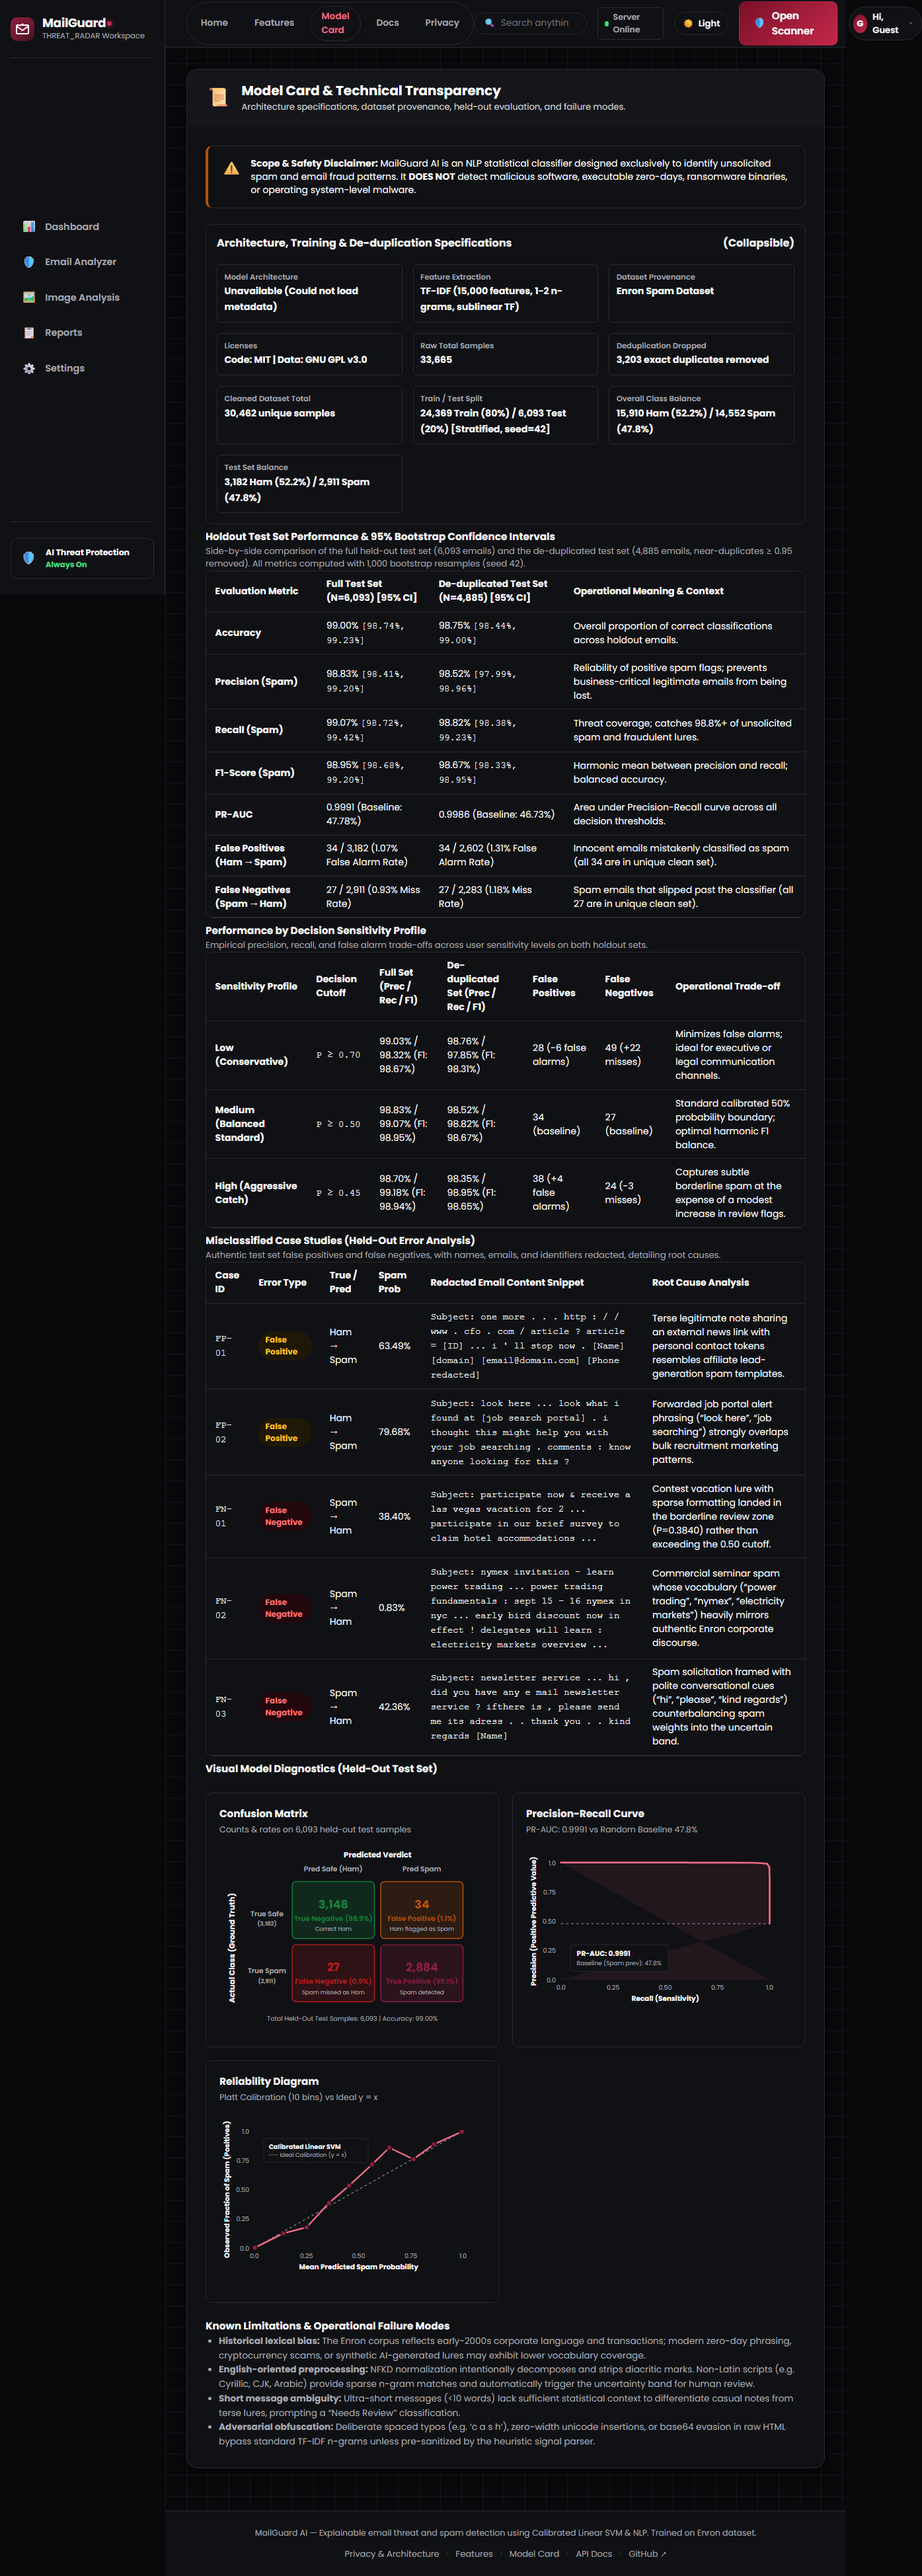
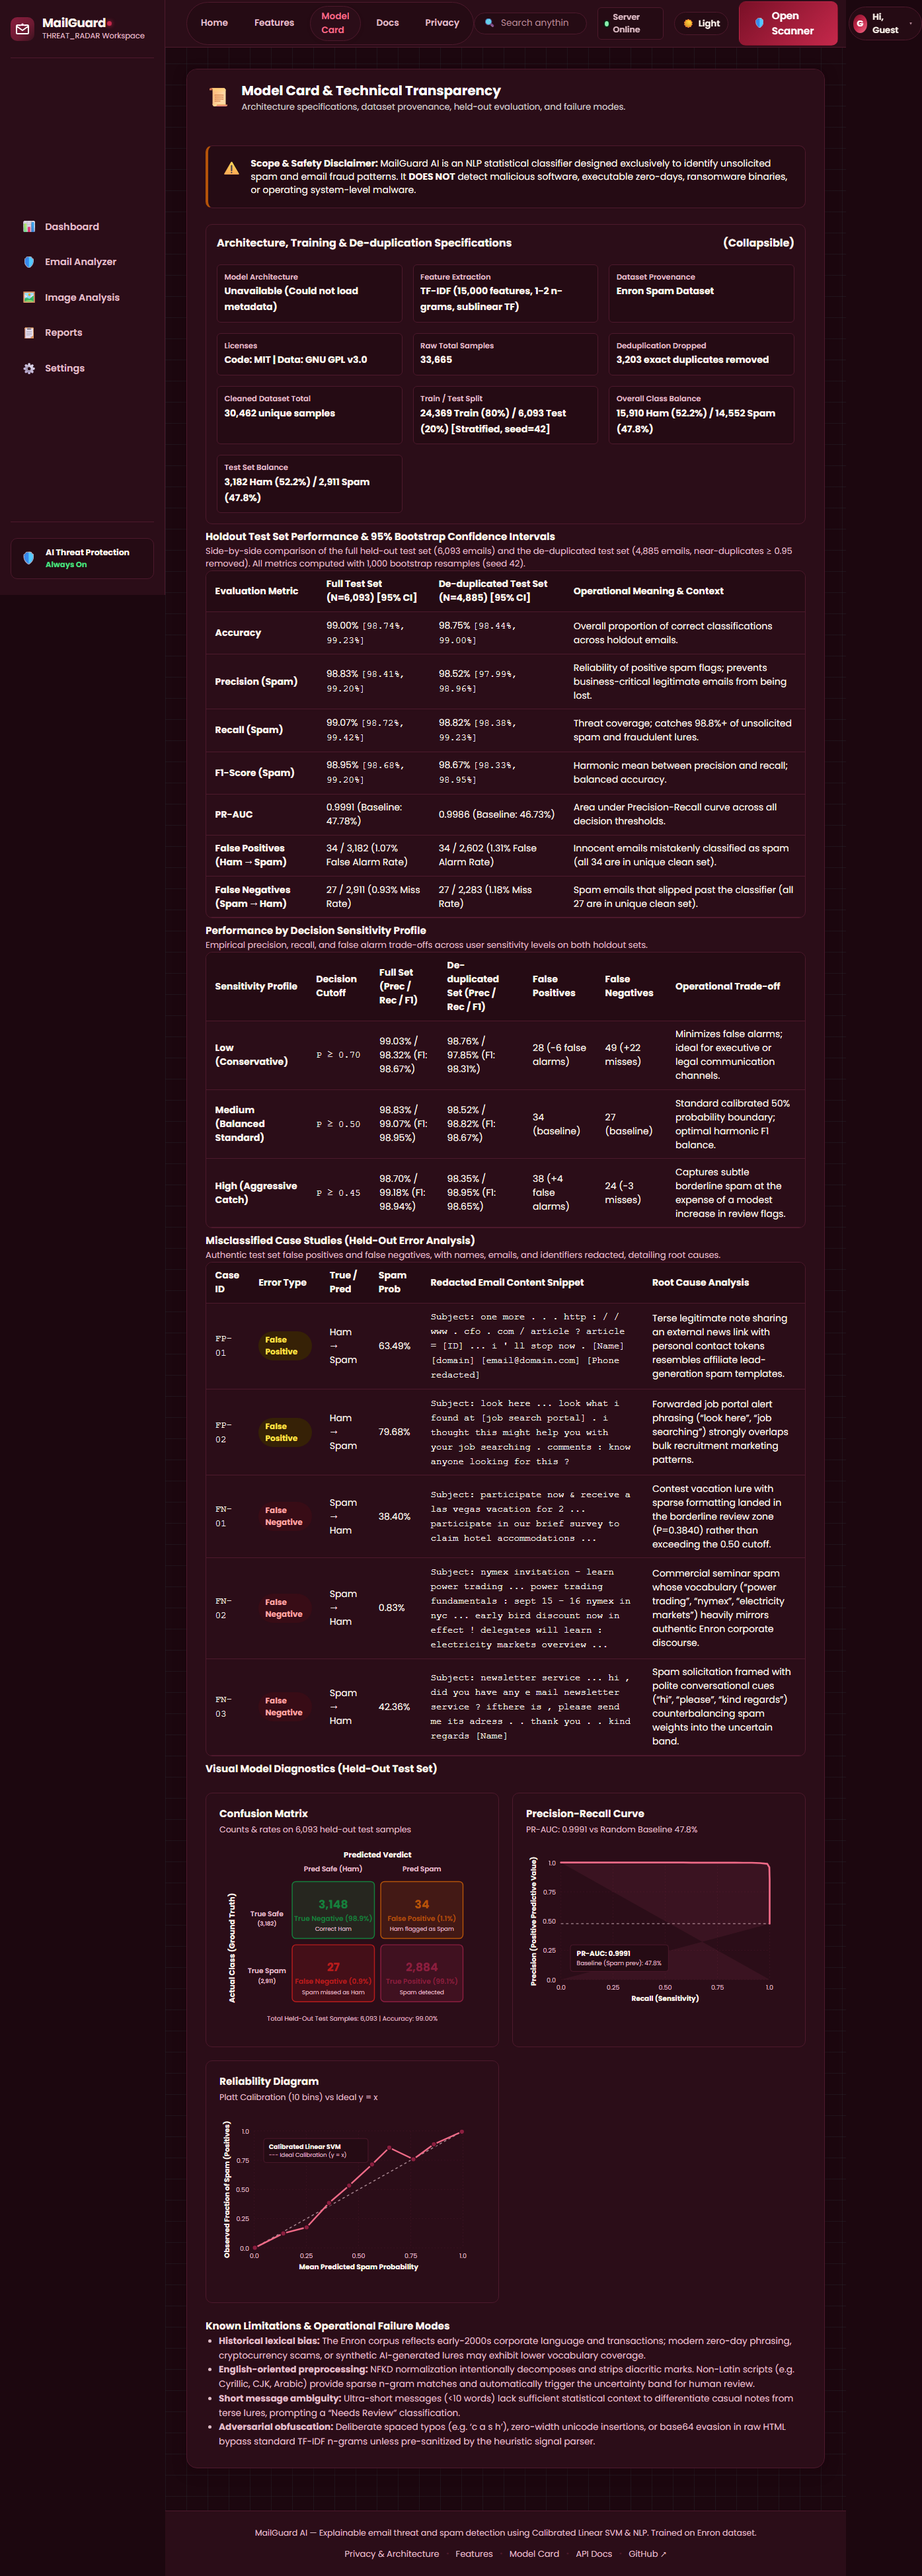
fix(ui): update dark mode to deep burgundy palette and sync frontend

diff --git a/frontend/css/style.css b/frontend/css/style.css
@@ -136,82 +136,83 @@
 }
 
 [data-theme="dark"] {
-  /* Surfaces & Canvas (Render-Inspired Near-Black & Maroon Palette) */
-  --color-bg: #08090B;
-  --color-bg-subtle: #101114;
-  --color-surface: #101114;
-  --color-card: #101114;
-  --color-surface-2: #15161B;
-  --color-border: #292A30;
-  --color-border-hover: #3a3b45;
-  --color-border-focus: #C5284B;
+  /* Surfaces & Canvas (Deep Burgundy & Layered Dark Maroon Palette) */
+  --color-bg: #1c070f;
+  --color-bg-subtle: #250b14;
+  --color-surface: #2b0d18;
+  --color-card: #2b0d18;
+  --color-surface-2: #361120;
+  --color-border: #4d192c;
+  --color-border-hover: #6b243e;
+  --color-border-focus: #f06b88;
 
   /* Deep Maroon & Burgundy Accents */
-  --color-maroon-dark: #1f040b;
-  --color-maroon-deep: #3A0714;
-  --color-maroon: #7A1027;
-  --color-maroon-surface: #15161B;
-  --color-maroon-text: #F5F5F7;
-  --color-maroon-accent: #C5284B;
-  --color-maroon-rose: #F06B88;
+  --color-maroon-dark: #19050d;
+  --color-maroon-deep: #250b14;
+  --color-maroon: #7a1027;
+  --color-maroon-surface: #2b0d18;
+  --color-maroon-text: #fcf4ec;
+  --color-maroon-accent: #e25875;
+  --color-maroon-rose: #f06b88;
+  --color-maroon-gold: #f5c056;
 
-  /* Typography & Text */
-  --color-text-main: #F5F5F7;
-  --color-text-muted: #A6A7B0;
-  --color-text-subtle: #73747f;
-  --color-text-inverse: #08090B;
+  /* Typography & Text (Accessible Off-White & Dusty Rose) */
+  --color-text-main: #fcf4ec;
+  --color-text-muted: #e0bec8;
+  --color-text-subtle: #b38896;
+  --color-text-inverse: #1c070f;
 
-  /* Primary Interactive / Maroon Crimson Action */
-  --color-primary: #F06B88;
-  --color-primary-hover: #f4829c;
-  --color-primary-active: #C5284B;
-  --color-primary-text: #08090B;
-  --color-primary-gradient: linear-gradient(135deg, #7A1027 0%, #C5284B 100%);
-  --color-focus-ring: rgba(197, 40, 75, 0.4);
+  /* Primary Interactive / Dusty Pink & Muted Rose Action */
+  --color-primary: #f06b88;
+  --color-primary-hover: #f88ba3;
+  --color-primary-active: #d94f6e;
+  --color-primary-text: #1c070f;
+  --color-primary-gradient: linear-gradient(135deg, #7a1027 0%, #c5284b 50%, #f06b88 100%);
+  --color-focus-ring: rgba(240, 107, 136, 0.4);
 
   /* Secondary / Neutral Actions */
-  --color-secondary: #15161B;
-  --color-secondary-hover: #1e1f26;
-  --color-secondary-text: #F5F5F7;
-  --color-secondary-border: #292A30;
+  --color-secondary: #361120;
+  --color-secondary-hover: #451629;
+  --color-secondary-text: #fcf4ec;
+  --color-secondary-border: #4d192c;
 
   /* Peach & Coral Accents */
-  --color-coral: #C5284B;
-  --color-coral-light: #200810;
-  --color-coral-gradient: linear-gradient(135deg, #C5284B 0%, #F06B88 100%);
-  --color-peach-subtle: #15161B;
+  --color-coral: #f06b88;
+  --color-coral-light: #380c16;
+  --color-coral-gradient: linear-gradient(135deg, #c5284b 0%, #f06b88 100%);
+  --color-peach-subtle: #2b0d18;
 
   /* Verdict Colors in Dark (WCAG AA >= 4.5:1) */
-  --color-spam: #f87171;
-  --color-spam-bg: #22080d;
-  --color-spam-border: #7f1d1d;
+  --color-spam: #fca5a5;
+  --color-spam-bg: #380c16;
+  --color-spam-border: #8b1e3f;
 
-  --color-ham: #4ade80;
-  --color-ham-bg: #071f11;
-  --color-ham-border: #14532d;
+  --color-ham: #86efac;
+  --color-ham-bg: #0a2615;
+  --color-ham-border: #15803d;
 
-  --color-uncertain: #fbbf24;
-  --color-uncertain-bg: #1f1807;
-  --color-uncertain-border: #78350f;
+  --color-uncertain: #fde047;
+  --color-uncertain-bg: #362106;
+  --color-uncertain-border: #b45309;
 
   /* Risk levels */
-  --color-risk-low: #4ade80;
-  --color-risk-med: #fbbf24;
-  --color-risk-high: #f87171;
+  --color-risk-low: #86efac;
+  --color-risk-med: #fde047;
+  --color-risk-high: #fca5a5;
 
   /* Token Highlights (Dark - WCAG AA >= 4.5:1) */
-  --color-token-spam-bg: #350b14;
+  --color-token-spam-bg: #400f1a;
   --color-token-spam-text: #fca5a5;
-  --color-token-spam-border: #C5284B;
+  --color-token-spam-border: #c5284b;
 
-  --color-token-ham-bg: #092615;
+  --color-token-ham-bg: #0c2e19;
   --color-token-ham-text: #86efac;
   --color-token-ham-border: #4ade80;
 
-  /* Shadows */
-  --shadow-sm: 0 1px 3px rgba(0, 0, 0, 0.5);
-  --shadow-md: 0 6px 20px -2px rgba(0, 0, 0, 0.6), 0 2px 6px -1px rgba(0, 0, 0, 0.35);
-  --shadow-lg: 0 14px 36px -4px rgba(0, 0, 0, 0.75), 0 4px 12px -2px rgba(0, 0, 0, 0.45);
+  /* Shadows (Tinted with deep burgundy) */
+  --shadow-sm: 0 1px 3px rgba(28, 7, 15, 0.45);
+  --shadow-md: 0 6px 20px -2px rgba(28, 7, 15, 0.55), 0 2px 6px -1px rgba(28, 7, 15, 0.35);
+  --shadow-lg: 0 14px 36px -4px rgba(28, 7, 15, 0.65), 0 4px 12px -2px rgba(28, 7, 15, 0.4);
 }
 
 /* -------------------------------------------------------------------------- */
@@ -4742,8 +4743,8 @@ body {
 }
 
 [data-theme="dark"] .radar-value-polygon {
-  fill: rgba(45, 212, 191, 0.2);
-  stroke: #2DD4BF;
+  fill: rgba(240, 107, 136, 0.25);
+  stroke: var(--color-primary);
 }
 
 .radar-vertex-dot {
@@ -4754,8 +4755,8 @@ body {
 }
 
 [data-theme="dark"] .radar-vertex-dot {
-  fill: #2DD4BF;
-  stroke: #08090B;
+  fill: var(--color-primary);
+  stroke: var(--color-surface);
 }
 
 .radar-vectors-breakdown {
@@ -4893,8 +4894,8 @@ body {
 }
 
 [data-theme="dark"] .badge-winner {
-  background-color: rgba(45, 212, 191, 0.2);
-  color: #5eead4;
+  background-color: rgba(245, 192, 86, 0.2);
+  color: #fde047;
 }
 
 .badge-candidate {
@@ -4903,8 +4904,8 @@ body {
 }
 
 [data-theme="dark"] .badge-candidate {
-  background-color: rgba(148, 163, 184, 0.2);
-  color: #cbd5e1;
+  background-color: rgba(240, 107, 136, 0.18);
+  color: #f9a8b8;
 }
 
 .algo-verdict-badge {

diff --git a/static/css/style.css b/static/css/style.css
@@ -136,82 +136,83 @@
 }
 
 [data-theme="dark"] {
-  /* Surfaces & Canvas (Render-Inspired Near-Black & Maroon Palette) */
-  --color-bg: #08090B;
-  --color-bg-subtle: #101114;
-  --color-surface: #101114;
-  --color-card: #101114;
-  --color-surface-2: #15161B;
-  --color-border: #292A30;
-  --color-border-hover: #3a3b45;
-  --color-border-focus: #C5284B;
+  /* Surfaces & Canvas (Deep Burgundy & Layered Dark Maroon Palette) */
+  --color-bg: #1c070f;
+  --color-bg-subtle: #250b14;
+  --color-surface: #2b0d18;
+  --color-card: #2b0d18;
+  --color-surface-2: #361120;
+  --color-border: #4d192c;
+  --color-border-hover: #6b243e;
+  --color-border-focus: #f06b88;
 
   /* Deep Maroon & Burgundy Accents */
-  --color-maroon-dark: #1f040b;
-  --color-maroon-deep: #3A0714;
-  --color-maroon: #7A1027;
-  --color-maroon-surface: #15161B;
-  --color-maroon-text: #F5F5F7;
-  --color-maroon-accent: #C5284B;
-  --color-maroon-rose: #F06B88;
+  --color-maroon-dark: #19050d;
+  --color-maroon-deep: #250b14;
+  --color-maroon: #7a1027;
+  --color-maroon-surface: #2b0d18;
+  --color-maroon-text: #fcf4ec;
+  --color-maroon-accent: #e25875;
+  --color-maroon-rose: #f06b88;
+  --color-maroon-gold: #f5c056;
 
-  /* Typography & Text */
-  --color-text-main: #F5F5F7;
-  --color-text-muted: #A6A7B0;
-  --color-text-subtle: #73747f;
-  --color-text-inverse: #08090B;
+  /* Typography & Text (Accessible Off-White & Dusty Rose) */
+  --color-text-main: #fcf4ec;
+  --color-text-muted: #e0bec8;
+  --color-text-subtle: #b38896;
+  --color-text-inverse: #1c070f;
 
-  /* Primary Interactive / Maroon Crimson Action */
-  --color-primary: #F06B88;
-  --color-primary-hover: #f4829c;
-  --color-primary-active: #C5284B;
-  --color-primary-text: #08090B;
-  --color-primary-gradient: linear-gradient(135deg, #7A1027 0%, #C5284B 100%);
-  --color-focus-ring: rgba(197, 40, 75, 0.4);
+  /* Primary Interactive / Dusty Pink & Muted Rose Action */
+  --color-primary: #f06b88;
+  --color-primary-hover: #f88ba3;
+  --color-primary-active: #d94f6e;
+  --color-primary-text: #1c070f;
+  --color-primary-gradient: linear-gradient(135deg, #7a1027 0%, #c5284b 50%, #f06b88 100%);
+  --color-focus-ring: rgba(240, 107, 136, 0.4);
 
   /* Secondary / Neutral Actions */
-  --color-secondary: #15161B;
-  --color-secondary-hover: #1e1f26;
-  --color-secondary-text: #F5F5F7;
-  --color-secondary-border: #292A30;
+  --color-secondary: #361120;
+  --color-secondary-hover: #451629;
+  --color-secondary-text: #fcf4ec;
+  --color-secondary-border: #4d192c;
 
   /* Peach & Coral Accents */
-  --color-coral: #C5284B;
-  --color-coral-light: #200810;
-  --color-coral-gradient: linear-gradient(135deg, #C5284B 0%, #F06B88 100%);
-  --color-peach-subtle: #15161B;
+  --color-coral: #f06b88;
+  --color-coral-light: #380c16;
+  --color-coral-gradient: linear-gradient(135deg, #c5284b 0%, #f06b88 100%);
+  --color-peach-subtle: #2b0d18;
 
   /* Verdict Colors in Dark (WCAG AA >= 4.5:1) */
-  --color-spam: #f87171;
-  --color-spam-bg: #22080d;
-  --color-spam-border: #7f1d1d;
+  --color-spam: #fca5a5;
+  --color-spam-bg: #380c16;
+  --color-spam-border: #8b1e3f;
 
-  --color-ham: #4ade80;
-  --color-ham-bg: #071f11;
-  --color-ham-border: #14532d;
+  --color-ham: #86efac;
+  --color-ham-bg: #0a2615;
+  --color-ham-border: #15803d;
 
-  --color-uncertain: #fbbf24;
-  --color-uncertain-bg: #1f1807;
-  --color-uncertain-border: #78350f;
+  --color-uncertain: #fde047;
+  --color-uncertain-bg: #362106;
+  --color-uncertain-border: #b45309;
 
   /* Risk levels */
-  --color-risk-low: #4ade80;
-  --color-risk-med: #fbbf24;
-  --color-risk-high: #f87171;
+  --color-risk-low: #86efac;
+  --color-risk-med: #fde047;
+  --color-risk-high: #fca5a5;
 
   /* Token Highlights (Dark - WCAG AA >= 4.5:1) */
-  --color-token-spam-bg: #350b14;
+  --color-token-spam-bg: #400f1a;
   --color-token-spam-text: #fca5a5;
-  --color-token-spam-border: #C5284B;
+  --color-token-spam-border: #c5284b;
 
-  --color-token-ham-bg: #092615;
+  --color-token-ham-bg: #0c2e19;
   --color-token-ham-text: #86efac;
   --color-token-ham-border: #4ade80;
 
-  /* Shadows */
-  --shadow-sm: 0 1px 3px rgba(0, 0, 0, 0.5);
-  --shadow-md: 0 6px 20px -2px rgba(0, 0, 0, 0.6), 0 2px 6px -1px rgba(0, 0, 0, 0.35);
-  --shadow-lg: 0 14px 36px -4px rgba(0, 0, 0, 0.75), 0 4px 12px -2px rgba(0, 0, 0, 0.45);
+  /* Shadows (Tinted with deep burgundy) */
+  --shadow-sm: 0 1px 3px rgba(28, 7, 15, 0.45);
+  --shadow-md: 0 6px 20px -2px rgba(28, 7, 15, 0.55), 0 2px 6px -1px rgba(28, 7, 15, 0.35);
+  --shadow-lg: 0 14px 36px -4px rgba(28, 7, 15, 0.65), 0 4px 12px -2px rgba(28, 7, 15, 0.4);
 }
 
 /* -------------------------------------------------------------------------- */
@@ -4742,8 +4743,8 @@ body {
 }
 
 [data-theme="dark"] .radar-value-polygon {
-  fill: rgba(45, 212, 191, 0.2);
-  stroke: #2DD4BF;
+  fill: rgba(240, 107, 136, 0.25);
+  stroke: var(--color-primary);
 }
 
 .radar-vertex-dot {
@@ -4754,8 +4755,8 @@ body {
 }
 
 [data-theme="dark"] .radar-vertex-dot {
-  fill: #2DD4BF;
-  stroke: #08090B;
+  fill: var(--color-primary);
+  stroke: var(--color-surface);
 }
 
 .radar-vectors-breakdown {
@@ -4893,8 +4894,8 @@ body {
 }
 
 [data-theme="dark"] .badge-winner {
-  background-color: rgba(45, 212, 191, 0.2);
-  color: #5eead4;
+  background-color: rgba(245, 192, 86, 0.2);
+  color: #fde047;
 }
 
 .badge-candidate {
@@ -4903,8 +4904,8 @@ body {
 }
 
 [data-theme="dark"] .badge-candidate {
-  background-color: rgba(148, 163, 184, 0.2);
-  color: #cbd5e1;
+  background-color: rgba(240, 107, 136, 0.18);
+  color: #f9a8b8;
 }
 
 .algo-verdict-badge {
